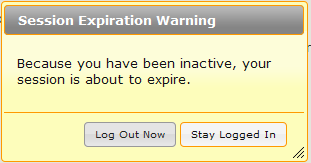
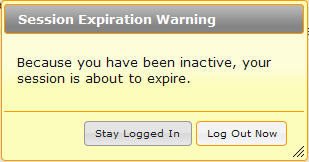
Update README & screenshot

Changed region(s): [[0.0, 0.0, 1.0, 1.0], [0.0583, 0.3395, 0.8738, 0.5556], [0.2621, 0.7407, 0.932, 0.9259]]

diff --git a/README.md b/README.md
@@ -1,18 +1,16 @@
 # jquery-idleTimeout
 
-Idle (no activity) timer and logout redirect for jQuery. Works cross-browser with multiple windows and tabs within the same domain.
+Configurable idle (no activity) timer and logout redirect for jQuery.
 
-Edit the configuration options at top of script, or you may configure the options when you call the idleTimeout function at run-time. Configure the 'activityEvents' variable to set which user actions will be considered 'being active'.
+<strong>Works cross-browser with multiple windows and tabs within the same domain.</strong>
 
-Pops up up a warning dialog box with 2 buttons, 'Stay Logged In' & 'Log Out Now', after the 'idleTimeLimit' amount of time of 'inactivity'. Warning dialog will display for the 'dialogDisplayLimit' amount of time.
+After the 'idleTimeLimit' amount of time of user inactivity, a warning dialog box with 2 buttons, 'Stay Logged In' & 'Log Out Now', appears. 'Stay Logged In' button may be activated with mouse click or press of Enter key.
+
+Warning dialog will display for the 'dialogDisplayLimit' amount of time. If no user activity, idleTimer will redirect user to 'redirectUrl'.
 
 ![Warning Dialog](https://raw.github.com/JillElaine/jquery-idleTimeout/master/warning_dialog.png)
 
-Note: This is a fork from the https://github.com/josebalius/jquery-idleTimeout project.
-
-The following dependency is required: https://github.com/marcuswestin/store.js - version 1.3.4+
-
-Additionally, JQuery version 1.7+ and JQuery UI are required.
+Any needed logout (session close) functions may be added to your 'redirectUrl' page or to the optional 'customCallback'.
 
 ### Cross browser communication within the same domain
 
@@ -22,17 +20,27 @@ Additionally, JQuery version 1.7+ and JQuery UI are required.
 * If 'Stay Logged In' button on warning dialog is clicked, warning dialogs on all other windows and tabs will disappear too.
 * If 'Log Out Now' button on warning dialog is clicked, all other windows and tabs will log out too.
 
+### System requirements
+
+The following dependency is required: https://github.com/marcuswestin/store.js - version 1.3.4+
+
+Additionally, JQuery version 1.7+ and JQuery UI are required.
+
+Note: This is a fork from the https://github.com/josebalius/jquery-idleTimeout project.
+
 ### Tested in These Browsers
 
 * Mozilla Firefox v22.0
 * Internet Explorer v8
 
-In beta-testing. Interested in feedback & testing on multiple browsers.
-Use jquery-idleTimeout-for-testing.js with Firefox with Firebug add-on for debugging.
+Interested in feedback & testing on multiple browsers.
+Use jquery-idleTimeout-for-testing.js with Firefox with Firebug add-on or similar for debugging.
 
 ## How to use
 
-Open jquery-idleTimeout.js and configure the 'Configuration Variables' for your system or configure at run-time.
+You must configure the 'redirectUrl' to redirect to a page within your website.
+
+Use the script with the other defaults or edit the other configuration options at top of jquery-idleTimeout.js script. Or configure the options when you call the idleTimeout function at run-time.
 
 ### Run with defaults
 
